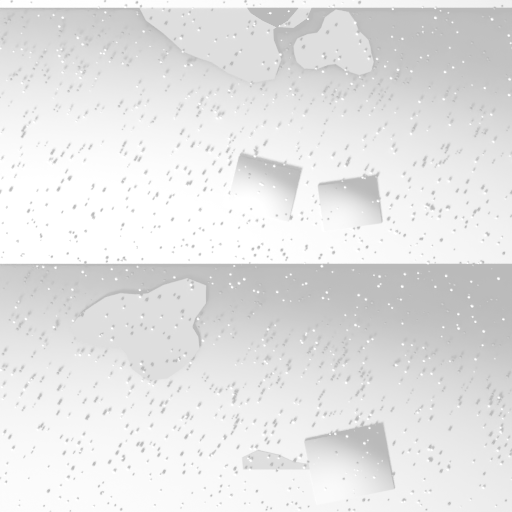
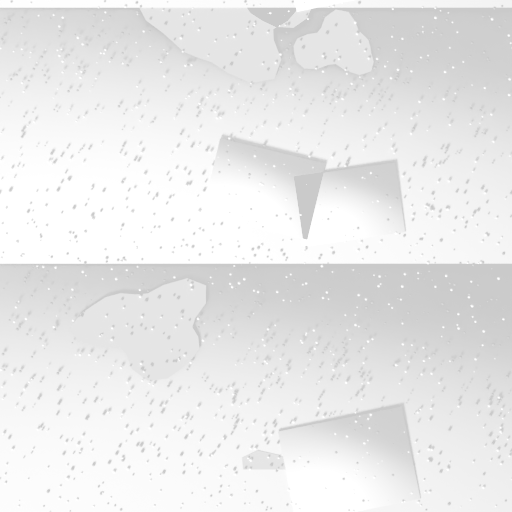
Painted materials: the meadow's valley fields in rendered ploughed rows (make_tiles.py furrows: earth ridges with crop tufts along their crowns), laid by each field's own coordinates, in some fields across (eight rows a field, so they thin where the fields narrow) and in the others down the field, c

diff --git a/art/blender/make_tiles.py b/art/blender/make_tiles.py
@@ -218,10 +218,11 @@ def roof():
         b = bmesh.new()
         slab(b, (0.0, y, 0.004), (1.6, 1.0 / rows + 0.03, 0.006), tilt=math.radians(-1.2))
         link("sheet%d" % j, b, mat)
-    patch = [grey_material("patch_a", 0.58), grey_material("patch_b", 0.7)]
+    patch = [grey_material("patch_a", 0.8), grey_material("patch_b", 0.86)]
     for k in range(3):
         cx, cy = rng.uniform(-0.5, 0.5), rng.uniform(-0.5, 0.5)
-        w, h = rng.uniform(0.08, 0.2), rng.uniform(0.06, 0.14)
+        # (Larger, so each repair reads as a shape at match distance, the gauntlet's round 27.)
+        w, h = rng.uniform(0.16, 0.3), rng.uniform(0.1, 0.2)
         turn = rng.uniform(-0.3, 0.3)
         m = patch[k % 2]
         for (px, py) in wrapped(cx, cy, 0.15):
@@ -258,8 +259,47 @@ def roof():
 
 
 
+def furrows():
+    """Ploughed farmland for the meadow's valley fields: eight ridges a tile running across it, each a rounded mound of earth with a
+    row of small crop tufts along its crown, darker troughs between them; laid by the fields' own coordinates in the game so the rows
+    follow (and converge with) the fields. Lit from image-up, as the land faces the sky."""
+    rng = random.Random(53)
+    reset()
+    bm = bmesh.new()
+    bmesh.ops.create_grid(bm, x_segments=1, y_segments=1, size=1.5)
+    link("trough", bm, grey_material("trough", 0.35))
+    ridge = grey_material("ridge", 0.62)
+    crop = [grey_material("crop_a", 0.82), grey_material("crop_b", 0.95)]
+    rows = 8
+    rb = bmesh.new()
+    cb = [bmesh.new(), bmesh.new()]
+    for j in range(rows + 2):
+        y = -0.5 + (j - 0.5) / rows
+        # The ridge: a long squashed tube along x, a hair wavy.
+        ret = bmesh.ops.create_cone(rb, cap_ends=False, cap_tris=False, segments=12, radius1=0.045, radius2=0.045, depth=1.8)
+        for v in ret["verts"]:
+            x, yy, z = v.co.z, v.co.x, v.co.y
+            v.co = Vector((x, y + yy + 0.004 * math.sin(x * 9.0 + j), z * 0.45))
+        # Crop tufts along its crown.
+        x = -0.6
+        while x < 0.6:
+            for (px, py) in wrapped(x, y, 0.03) if abs(y) < 0.5 else [(x, y)]:
+                for b in range(rng.randint(5, 9)):
+                    a = rng.uniform(0, math.tau)
+                    out = Vector((math.cos(a), math.sin(a), 0.0))
+                    blade(cb[j % 2], Vector((px, py, 0.016)) + out * 0.004, out, rng.uniform(0.018, 0.03), rng.uniform(0.003, 0.005),
+                          rng.uniform(0.4, 0.9), rng.uniform(-1, 1))
+            x += rng.uniform(0.022, 0.036)
+    rb.normal_update()
+    link("ridges", rb, ridge)
+    for k in range(2):
+        link("crop%d" % k, cb[k], crop[k])
+    sun((0.3, -0.85, -0.6), 4.0)
+    return bpy.context.scene
+
+
 # (The lawn's range narrower and brighter, the gauntlet's round 26: at 0.55 the meadow's lawn read as a dark speckled felt.)
-TILES = {"lawn": (lawn, 0.68), "soil_bank": (soil_bank, 0.4), "roof_render": (roof, 0.5)}
+TILES = {"lawn": (lawn, 0.68), "soil_bank": (soil_bank, 0.4), "roof_render": (roof, 0.6), "furrows": (furrows, 0.62)}
 
 
 def render_tile(name):

diff --git a/docs/gauntlet/LOG.md b/docs/gauntlet/LOG.md
@@ -359,3 +359,17 @@ single-value fills (lawn, field, soil, crowns, headland, roof).
 Ground tiles rendered from modelled geometry (art/blender/make_tiles.py). The grove's clod bank and turf work (its Believability 4,
 the first 4 for material quality); the meadow's turf came out a dark, even felt; the headland in the turf read as lichen noise in
 front of the town (Depth 4 to 3, reverted). Next material: the city roof, then the meadow's valley field.
+
+## Round 27 (2026-10-18, commit c1e883b)
+
+| Stage | Believ. | Cohesion | Lighting | Depth | Ground | Clarity | Mean |
+|---|---|---|---|---|---|---|---|
+| Meadow | 3 | 3 | 3 | 3 | 3 | 3 | 3.0 |
+| Canyon | 2 | 3 | 3 | 2 | 2 | 3 | 2.5 |
+| Beach | 3 | 3 | 3 | 4 | 3 | 3 | 3.2 |
+| City | 3 | 3 | 3 | 3 | 3 | 3 | 3.0 |
+| Grove | 4 | 3 | 3 | 3 | 3 | 3 | 3.2 |
+
+The rendered roofing reads as worn material but its repairs read as grime and it went darker than the facade; the meadow's lawn now a
+mown field; the headland's calm back (Depth 4). Next material: the valley field (ploughed rows that converge), then the meadow's
+platforms.
